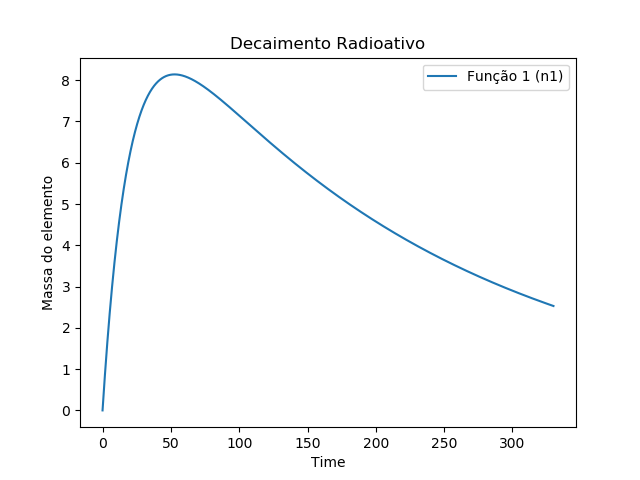
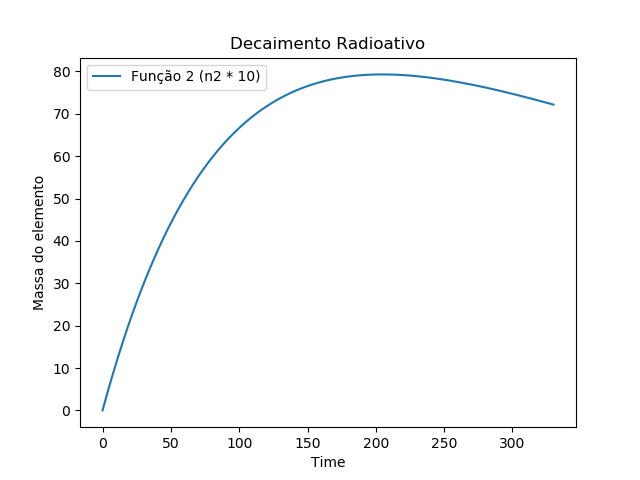
fix: deltas t

diff --git a/app.py b/app.py
@@ -6,10 +6,10 @@ import matplotlib.pyplot as plt
 
 # definindo lambda1 = 2 e lamda2 = 4
 
-lamb_one = 4.56 * (10 ** (-3))
-lamb_two = 0.05
+lamb_one = 0.0105
+lamb_two = 1.7503 * (10 ** (-3))
 
-delta_t = 0.0001
+delta_t = 0.001
 final_interval_t = 330
 f0_one = 11.35
 f0_two = 0
@@ -26,12 +26,11 @@ def f_line_two(fx_one, fx_two):
 
 
 def f_n2(t):
-    return lamb_one * f0_one * np.exp(-lamb_one * t) / (lamb_two)
-
-# f(x0 + ∆x) = f(x0) + f'(x0)∆x
+    return (f0_one * lamb_one / (lamb_two - lamb_one)) * (np.exp(-lamb_one * t) - np.exp(-lamb_two * t))
 
 
 def euler_method(f0_one, f0_two, delta_x, steps, f_line_one, f_line_two):
+     # f(x0 + ∆x) = f(x0) + f'(x0)∆x
     results_one = [f0_one]
     results_two = [f0_two]
 
@@ -59,23 +58,22 @@ euler = euler_method(f0_one, f0_two, delta_t, steps, f_line_one, f_line_two)
 analytical = []
 for t in steps:
     analytical.append(f_n2(t))
-analytical[0] = 0
 
-plt.plot(steps, euler['one'])
-plt.plot(steps, (euler['two']))
-plt.title('Decaimento Radioativo')
-plt.xlabel('Time')
-plt.ylabel('Massa do elemento')
-plt.legend(["Função 1 (n1)", "Função 2 (n2)"])
-plt.savefig("decaimento-radioativo.png", dpi=100)
-plt.show()
-
-
-# plt.plot(steps, euler_10)
+# plt.plot(steps, euler['one'])
+# plt.plot(steps, (euler['two']))
 # plt.title('Decaimento Radioativo')
 # plt.xlabel('Time')
 # plt.ylabel('Massa do elemento')
 # plt.legend(["Função 1 (n1)", "Função 2 (n2)"])
+# plt.savefig("decaimento-radioativo.png", dpi=100)
+# plt.show()
+
+
+# plt.plot(steps, np.multiply(euler['two'], 10))
+# plt.title('Decaimento Radioativo')
+# plt.xlabel('Time')
+# plt.ylabel('Massa do elemento')
+# plt.legend(["Função 2 (n2 * 10)"])
 # plt.savefig("decaimento-radioativo-10n2.png", dpi=100)
 # plt.show()
 
@@ -88,3 +86,21 @@ plt.show()
 # plt.legend(["analitical", "Função 2 (n2)"])
 # plt.savefig("decaimento-radioativo-comparação-erro.png", dpi=100)
 # plt.show()
+
+
+delta_t_2 = delta_t * 10000
+steps_2 = np.arange(0, final_interval_t + delta_t_2, delta_t_2)
+euler_2 = euler_method(f0_one, f0_two, delta_t_2,
+                       steps_2, f_line_one, f_line_two)
+
+
+plt.plot(steps, analytical)
+plt.plot(steps, euler['two'], "--")
+plt.plot(steps_2, euler_2['two'])
+plt.title('Decaimento Radioativo')
+plt.xlabel('Time')
+plt.ylabel('Massa do elemento')
+plt.legend(["analitical", "Função 2 (n2) - delta t: {0}".format(
+    delta_t), "Função 2 (n2) - delta t: {0}".format(delta_t_2)])
+plt.savefig("decaimento-radioativo-comparação-erro.png", dpi=100)
+plt.show()
